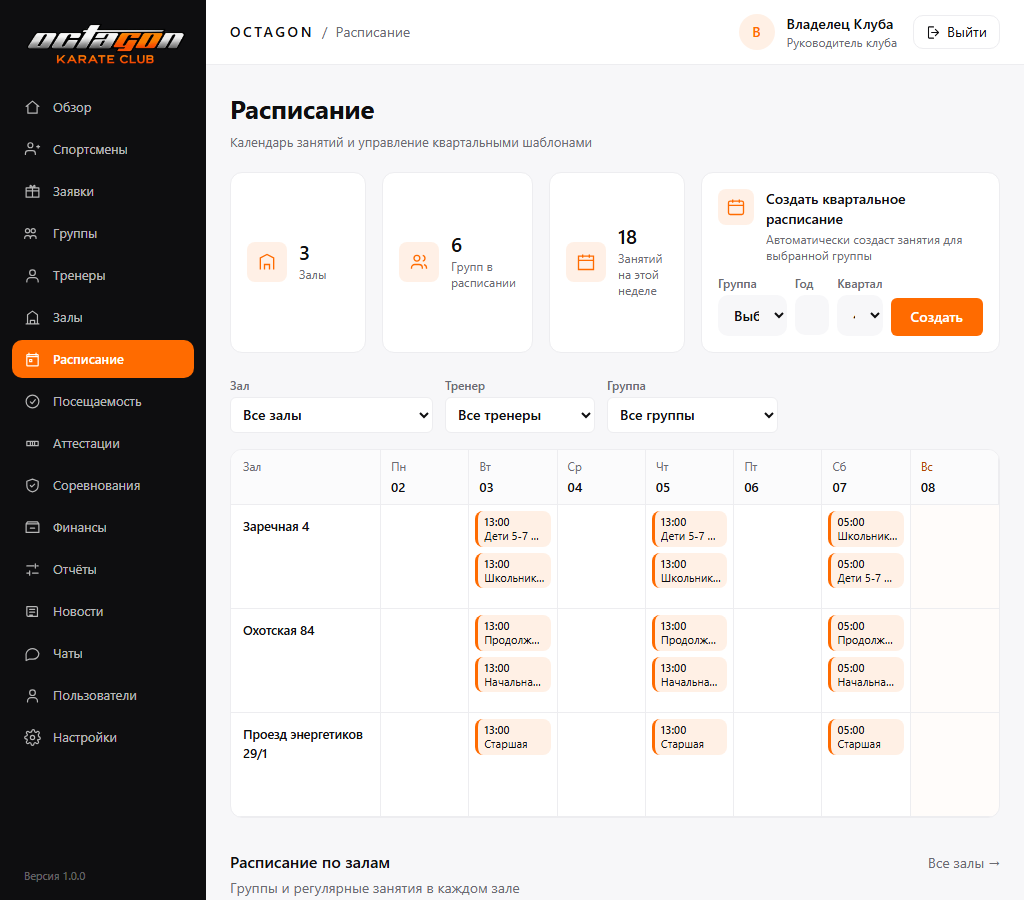
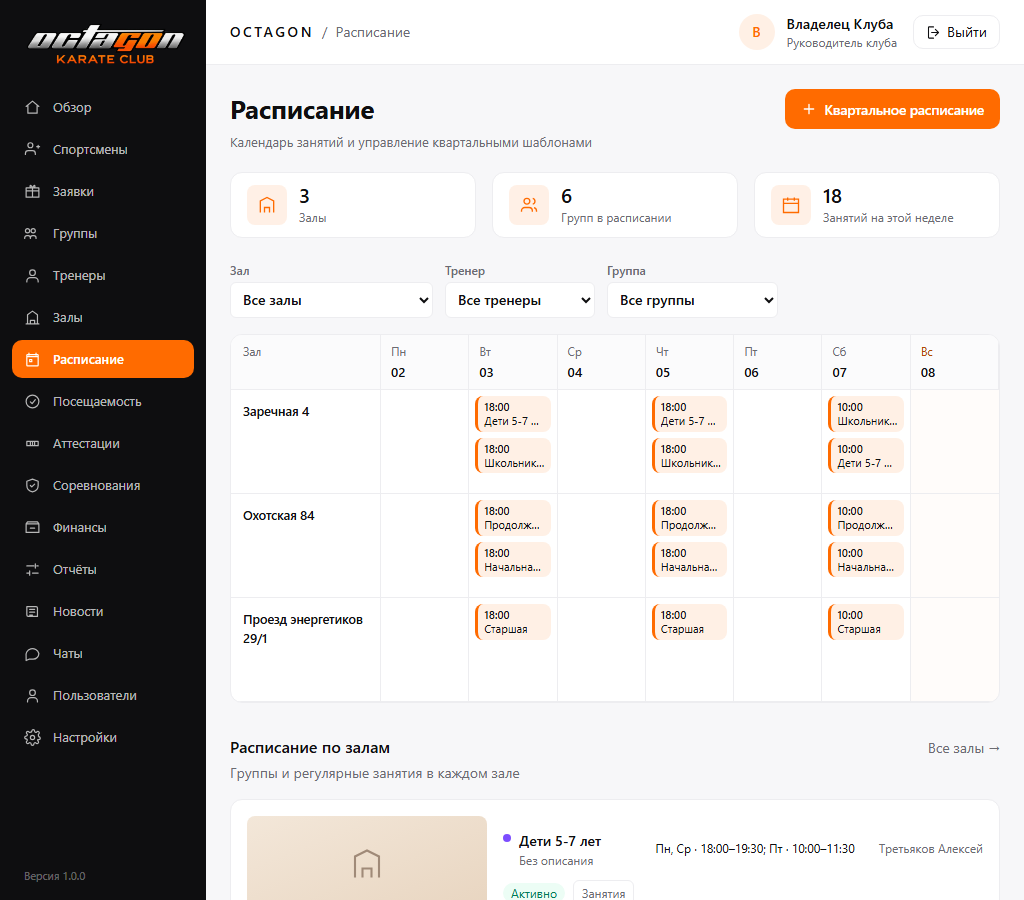
fix(admin): прямой ?tab=payments без права открывает профиль (#UAT)

diff --git a/apps/admin/src/app/athletes/[id]/page.tsx b/apps/admin/src/app/athletes/[id]/page.tsx
@@ -129,7 +129,12 @@ export default async function AthletePage({
 
   const { id } = await params;
   const { tab } = await searchParams;
-  const activeTab: TabKey = TABS.some((item) => item.key === tab) ? (tab as TabKey) : 'profile';
+  const canViewFinanceEarly = user.permissions.includes('payments.view');
+  // Прямой ?tab=payments без права не должен показывать вкладку даже частично:
+  // открываем профиль, как будто вкладки не существует.
+  const requestedTab: TabKey = TABS.some((item) => item.key === tab) ? (tab as TabKey) : 'profile';
+  const activeTab: TabKey =
+    requestedTab === 'payments' && !canViewFinanceEarly ? 'profile' : requestedTab;
 
   const { accessToken } = await readTokens();
   const canEdit = user.permissions.includes('athletes.edit');
